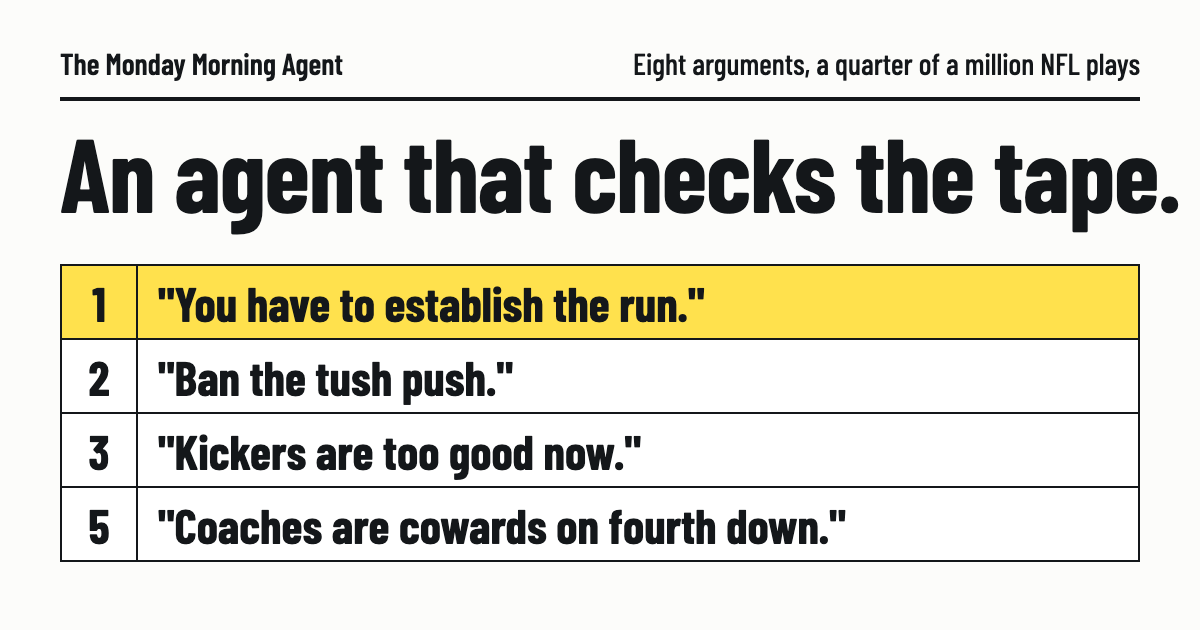
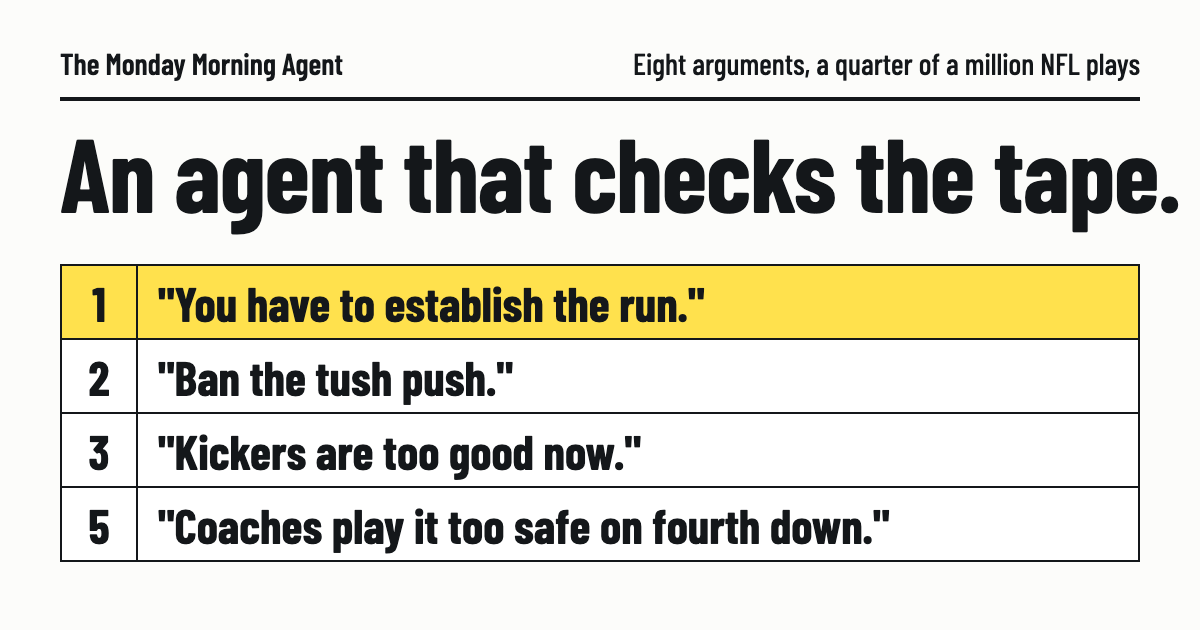
Episode 5 title: use O'Reilly's "Coaches play it too safe on fourth down"
The series page, its link-preview image and alt text, the episode 4 page's
"Next" line, the football primer, and the README table now use O'Reilly's
title. The aired episode 4 walkthrough caption keeps the words said on air.

Claude-Session: https://claude.ai/code/session_01PGieaX6DBPCLFwSvwtw1Dh

Changed region(s): [[0.2775, 0.8143, 0.74, 0.8746]]

diff --git a/docs/episode-4/index.html b/docs/episode-4/index.html
@@ -452,7 +452,7 @@ ANALYST_DICT_DIR=$(mktemp -d) ANALYST_CHART_DIR=$(mktemp -d) ./run-analyst.sh "W
 
 <section id="series" data-nav="The series">
   <h2>The rest of the series</h2>
-  <p>This is episode 4 of eight. Each episode settles one argument and takes away one piece of human oversight, replacing it with something written down. Here it is the reading: from now on every <a class="term" href="#term-ruling" data-def="The analyst's answer: nine parts, under 500 words, citing its entry and its chart and ending with the commands it ran.">ruling</a> is checked by a second agent before anyone else reads it. <a href="../episode-1/">Episode 1, "You have to establish the run,"</a> showed the tool's <a class="term" href="#term-filter" data-def="A rule that drops plays before counting. The tool prints each one in order, with the plays left after it.">filters</a>. <a href="../episode-2/">Episode 2, "Ban the tush push,"</a> gave the agent a <a class="term" href="#term-dictionary" data-def="The folder of written definitions, one JSON file per entry, of three kinds since this episode: a rush, a kick, and an event.">dictionary</a> it must cite. <a href="../episode-3/">Episode 3, "Kickers are too good now,"</a> gave it written rules for its charts. <a href="../">All eight arguments are on the series page.</a> Next, on December 7, 2026: "Coaches are cowards on fourth down," and a line the agent describes up to and declines to cross.</p>
+  <p>This is episode 4 of eight. Each episode settles one argument and takes away one piece of human oversight, replacing it with something written down. Here it is the reading: from now on every <a class="term" href="#term-ruling" data-def="The analyst's answer: nine parts, under 500 words, citing its entry and its chart and ending with the commands it ran.">ruling</a> is checked by a second agent before anyone else reads it. <a href="../episode-1/">Episode 1, "You have to establish the run,"</a> showed the tool's <a class="term" href="#term-filter" data-def="A rule that drops plays before counting. The tool prints each one in order, with the plays left after it.">filters</a>. <a href="../episode-2/">Episode 2, "Ban the tush push,"</a> gave the agent a <a class="term" href="#term-dictionary" data-def="The folder of written definitions, one JSON file per entry, of three kinds since this episode: a rush, a kick, and an event.">dictionary</a> it must cite. <a href="../episode-3/">Episode 3, "Kickers are too good now,"</a> gave it written rules for its charts. <a href="../">All eight arguments are on the series page.</a> Next, on December 7, 2026: "Coaches play it too safe on fourth down," and a line the agent describes up to and declines to cross.</p>
 </section>
 
 <section id="appendix" data-nav="Appendix">

diff --git a/docs/index.html b/docs/index.html
@@ -17,7 +17,7 @@
 <meta property="og:image" content="https://ismayc.github.io/monday-morning-agent/og-image.png">
 <meta property="og:image:width" content="1200">
 <meta property="og:image:height" content="630">
-<meta property="og:image:alt" content="The Monday Morning Agent. An agent that checks the tape. Four of the season's arguments: You have to establish the run. Ban the tush push. Kickers are too good now. Coaches are cowards on fourth down.">
+<meta property="og:image:alt" content="The Monday Morning Agent. An agent that checks the tape. Four of the season's arguments: You have to establish the run. Ban the tush push. Kickers are too good now. Coaches play it too safe on fourth down.">
 <meta name="twitter:card" content="summary_large_image">
 <meta name="twitter:title" content="The Monday Morning Agent: an agent that checks the tape">
 <meta name="twitter:description" content="Eight football arguments, settled on screen by an AI agent from a quarter of a million real NFL plays.">
@@ -156,7 +156,7 @@
   </a>
   <div class="ep">
     <i>5</i>
-    <div><h2>"Coaches are cowards on fourth down."</h2><p>The agent describes what teams did and declines, on air, to predict what they will do.</p></div>
+    <div><h2>"Coaches play it too safe on fourth down."</h2><p>The agent describes what teams did and declines, on air, to predict what they will do.</p></div>
     <div><span class="when">Monday, December 7, 2026</span>Its page arrives with the episode.</div>
   </div>
   <div class="ep">

diff --git a/docs/football.html b/docs/football.html
@@ -188,7 +188,7 @@
     </svg>
     <figcaption>One set of downs, 10 yards to gain. The gray bars are the first two plays, the <span class="y">yellow</span> bar the one that crosses the line to gain and starts a new set. Had the third play fallen short, it would have been fourth and short, and the choice below.</figcaption>
   </figure>
-  <p>On fourth down most teams do not use the last try. They punt, kicking the ball far down the field, or, when close enough, kick a field goal. Trying for the yards instead is called going for it. Whether coaches should do it more often is episode 5's argument, "Coaches are cowards on fourth down."</p>
+  <p>On fourth down most teams do not use the last try. They punt, kicking the ball far down the field, or, when close enough, kick a field goal. Trying for the yards instead is called going for it. Whether coaches should do it more often is episode 5's argument, "Coaches play it too safe on fourth down."</p>
   <p>A play ends when the ball carrier is tackled to the ground or goes out of bounds, when a pass hits the ground without a catch, or when someone scores. Each play is one row in the data.</p>
   <p style="margin-top:18px">Sometimes the two teams switch roles in the middle of a play. The defense takes the ball, becomes the offense at once, and can run the other way with it before the play ends. These are turnovers, and there are three kinds.</p>
   <div class="rows">

diff --git a/docs/og-image.html b/docs/og-image.html
@@ -28,6 +28,6 @@
     <div><i>1</i><span>"You have to establish the run."</span></div>
     <div><i>2</i><span>"Ban the tush push."</span></div>
     <div><i>3</i><span>"Kickers are too good now."</span></div>
-    <div><i>5</i><span>"Coaches are cowards on fourth down."</span></div>
+    <div><i>5</i><span>"Coaches play it too safe on fourth down."</span></div>
   </div>
 </div>

diff --git a/README.md b/README.md
@@ -21,7 +21,7 @@ the tool, the data, the runner, and real output. One page folder per episode und
 | 2 | "Ban the tush push." | October 26, 2026 (aired; [recording and recap](https://www.oreilly.com/radar/the-monday-morning-agent-defining-the-tush-push/), [Substack](https://oreillyradar.substack.com/p/the-monday-morning-agent-defining)) | Shared data definitions as durable memory | A dictionary the agent writes and must cite from then on, and every later episode inherits | [`episode-2/`](episode-2/), [page](https://ismayc.github.io/monday-morning-agent/episode-2/) |
 | 3 | "Kickers are too good now." | November 9, 2026 (aired; [recording and recap](https://www.oreilly.com/radar/the-monday-morning-agent-are-kickers-too-good-now/), [Substack](https://oreillyradar.substack.com/p/the-monday-morning-agent-are-kickers)) | Consistent visualizations | Written rules for its charts: a standard the renderer enforces, drawn only from rows the tool printed, and every later episode inherits | [`episode-3/`](episode-3/), [page](https://ismayc.github.io/monday-morning-agent/episode-3/) |
 | 4 | The pundit audit: "Win the turnover battle, win the game." | November 23, 2026 | Independent fact-checking | A second agent as a standing fact-checker; the room chose the claim in episode 3's poll on November 9, 2026 (C, over A and B tied for second) | [`episode-4/`](episode-4/), [page](https://ismayc.github.io/monday-morning-agent/episode-4/) |
-| 5 | "Coaches are cowards on fourth down." | December 7, 2026 | Operational boundaries | A written line it describes up to and declines to cross: no predictions | with the episode |
+| 5 | "Coaches play it too safe on fourth down." | December 7, 2026 | Operational boundaries | A written line it describes up to and declines to cross: no predictions | with the episode |
 | 6 | The mailbag, from the previous Q&A | January 11, 2027 | Request triage | Working a queue of vague requests it did not choose, from episode 5's Q&A | with the episode |
 | 7 | The agent writes its own column | January 25, 2027 | Self-directed analysis | Choosing its own questions, checked before it ships | with the episode |
 | 8 | Two weeks unattended | February 8, 2027 | Scheduled autonomy | Running on a schedule, where the refusals matter more than the answers | with the episode |
